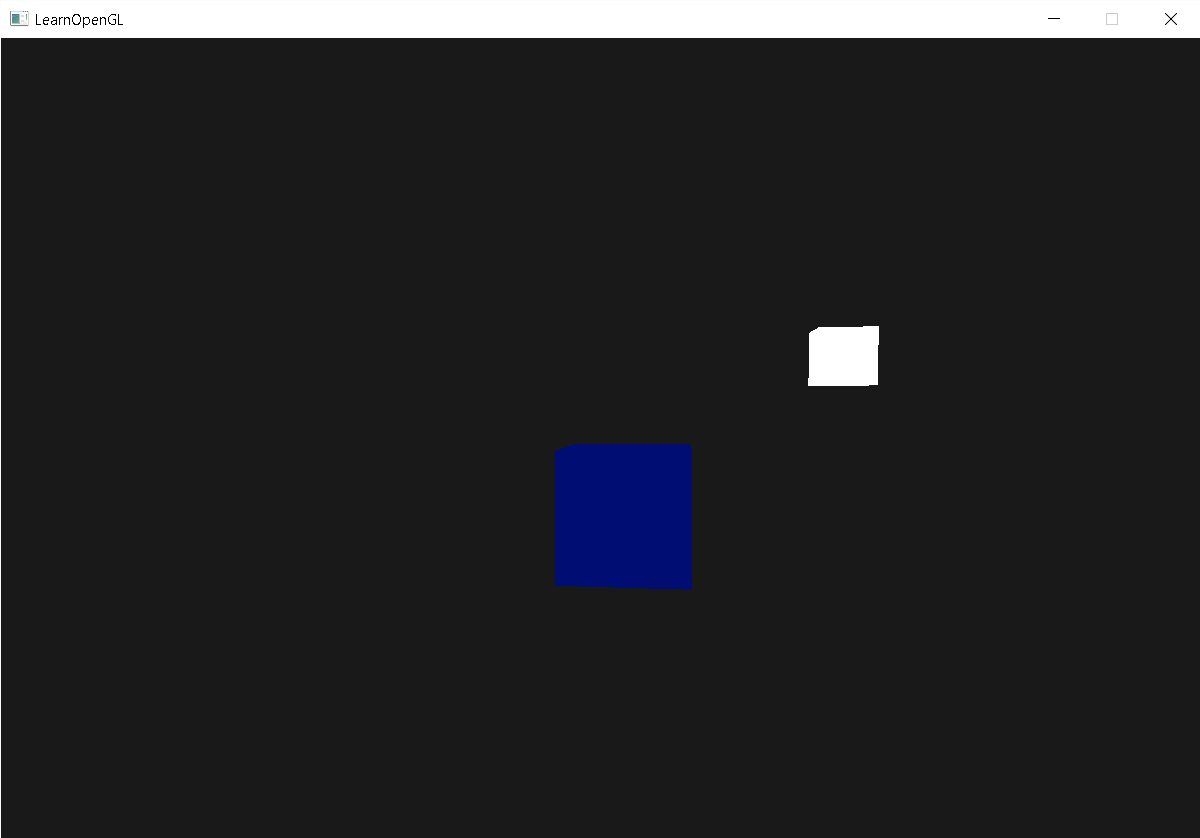
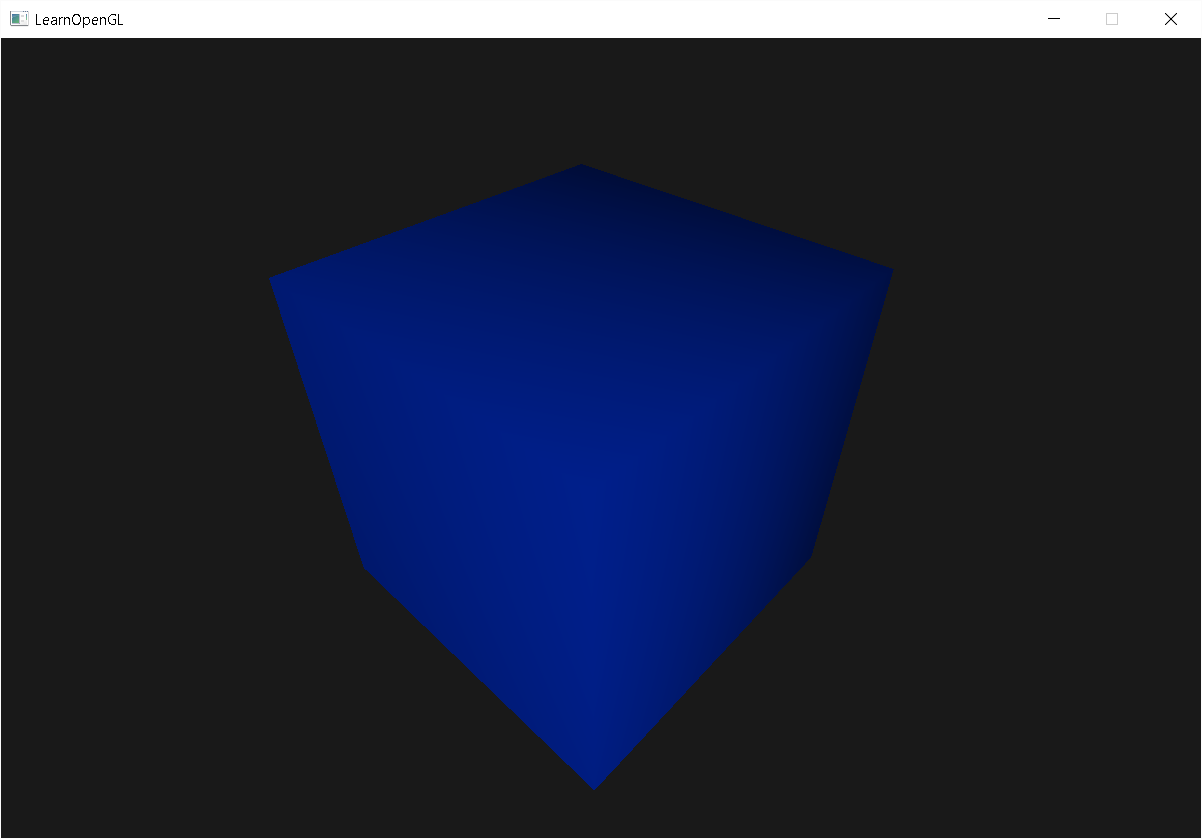
Cube is shaded not well, but beautiful, need to fix normal vectors

Changed region(s): [[0.2158, 0.1862, 0.74, 0.9308], [0.0, 0.9928, 1.0, 1.0], [0.0617, 0.0, 0.0925, 0.031]]

diff --git a/OpenGlFirst/Test.cpp b/OpenGlFirst/Test.cpp
@@ -106,52 +106,52 @@ int main()
 		Shader lampShader("C:\\Users\\Vadim\\Documents\\Visual Studio 2012\\Projects\\OpenGlFirst\\shaders\\lamp.vs", 
 		"C:\\Users\\Vadim\\Documents\\Visual Studio 2012\\Projects\\OpenGlFirst\\shaders\\lamp.frag");
 
-    // Set up vertex data (and buffer(s)) and attribute pointers for CUBE
-   GLfloat vertices[] = 
-   {
-        -0.5f, -0.5f, -0.5f,
-         0.5f, -0.5f, -0.5f,
-         0.5f,  0.5f, -0.5f,
-         0.5f,  0.5f, -0.5f,
-        -0.5f,  0.5f, -0.5f,
-        -0.5f, -0.5f, -0.5f,
+    // Set up vertex data (and buffer(s)) and attribute pointers for CUBE with normals
+       GLfloat vertices[] = {
+    -0.5f, -0.5f, -0.5f,  0.0f,  0.0f, -1.0f,
+     0.5f, -0.5f, -0.5f,  0.0f,  0.0f, -1.0f, 
+     0.5f,  0.5f, -0.5f,  0.0f,  0.0f, -1.0f, 
+     0.5f,  0.5f, -0.5f,  0.0f,  0.0f, -1.0f, 
+    -0.5f,  0.5f, -0.5f,  0.0f,  0.0f, -1.0f, 
+    -0.5f, -0.5f, -0.5f,  0.0f,  0.0f, -1.0f, 
 
-        -0.5f, -0.5f,  0.5f,
-         0.5f, -0.5f,  0.5f,
-         0.5f,  0.5f,  0.5f,
-         0.5f,  0.5f,  0.5f,
-        -0.5f,  0.5f,  0.5f,
-        -0.5f, -0.5f,  0.5f,
+    -0.5f, -0.5f,  0.5f,  0.0f,  0.0f, 1.0f,
+     0.5f, -0.5f,  0.5f,  0.0f,  0.0f, 1.0f,
+     0.5f,  0.5f,  0.5f,  0.0f,  0.0f, 1.0f,
+     0.5f,  0.5f,  0.5f,  0.0f,  0.0f, 1.0f,
+    -0.5f,  0.5f,  0.5f,  0.0f,  0.0f, 1.0f,
+    -0.5f, -0.5f,  0.5f,  0.0f,  0.0f, 1.0f,
 
-        -0.5f,  0.5f,  0.5f,
-        -0.5f,  0.5f, -0.5f,
-        -0.5f, -0.5f, -0.5f,
-        -0.5f, -0.5f, -0.5f,
-        -0.5f, -0.5f,  0.5f,
-        -0.5f,  0.5f,  0.5f,
+    -0.5f,  0.5f,  0.5f, -1.0f,  0.0f,  0.0f,
+    -0.5f,  0.5f, -0.5f, -1.0f,  0.0f,  0.0f,
+    -0.5f, -0.5f, -0.5f, -1.0f,  0.0f,  0.0f,
+    -0.5f, -0.5f, -0.5f, -1.0f,  0.0f,  0.0f,
+    -0.5f, -0.5f,  0.5f, -1.0f,  0.0f,  0.0f,
+    -0.5f,  0.5f,  0.5f, -1.0f,  0.0f,  0.0f,
 
-         0.5f,  0.5f,  0.5f,
-         0.5f,  0.5f, -0.5f,
-         0.5f, -0.5f, -0.5f,
-         0.5f, -0.5f, -0.5f,
-         0.5f, -0.5f,  0.5f,
-         0.5f,  0.5f,  0.5f,
+     0.5f,  0.5f,  0.5f,  1.0f,  0.0f,  0.0f,
+     0.5f,  0.5f, -0.5f,  1.0f,  0.0f,  0.0f,
+     0.5f, -0.5f, -0.5f,  1.0f,  0.0f,  0.0f,
+     0.5f, -0.5f, -0.5f,  1.0f,  0.0f,  0.0f,
+     0.5f, -0.5f,  0.5f,  1.0f,  0.0f,  0.0f,
+     0.5f,  0.5f,  0.5f,  1.0f,  0.0f,  0.0f,
 
-        -0.5f, -0.5f, -0.5f,
-         0.5f, -0.5f, -0.5f,
-         0.5f, -0.5f,  0.5f,
-         0.5f, -0.5f,  0.5f,
-        -0.5f, -0.5f,  0.5f,
-        -0.5f, -0.5f, -0.5f,
+    -0.5f, -0.5f, -0.5f,  0.0f, -1.0f,  0.0f,
+     0.5f, -0.5f, -0.5f,  0.0f, -1.0f,  0.0f,
+     0.5f, -0.5f,  0.5f,  0.0f, -1.0f,  0.0f,
+     0.5f, -0.5f,  0.5f,  0.0f, -1.0f,  0.0f,
+    -0.5f, -0.5f,  0.5f,  0.0f, -1.0f,  0.0f,
+    -0.5f, -0.5f, -0.5f,  0.0f, -1.0f,  0.0f,
 
-        -0.5f,  0.5f, -0.5f,
-         0.5f,  0.5f, -0.5f,
-         0.5f,  0.5f,  0.5f,
-         0.5f,  0.5f,  0.5f,
-        -0.5f,  0.5f,  0.5f,
-        -0.5f,  0.5f, -0.5f
+    -0.5f,  0.5f, -0.5f,  0.0f,  1.0f,  0.0f,
+     0.5f,  0.5f, -0.5f,  0.0f,  1.0f,  0.0f,
+     0.5f,  0.5f,  0.5f,  0.0f,  1.0f,  0.0f,
+     0.5f,  0.5f,  0.5f,  0.0f,  1.0f,  0.0f,
+    -0.5f,  0.5f,  0.5f,  0.0f,  1.0f,  0.0f,
+    -0.5f,  0.5f, -0.5f,  0.0f,  1.0f,  0.0f
+};
 
-   };
+  
     
 
     GLuint VBO, boxVAO;
@@ -163,8 +163,8 @@ int main()
 
 	glBindVertexArray(boxVAO);    
     // Position attribute
-    glVertexAttribPointer(0, 3, GL_FLOAT, GL_FALSE, 3 * sizeof(GLfloat), (GLvoid*)0);
-    glEnableVertexAttribArray(0);
+    glVertexAttribPointer(0, 3, GL_FLOAT, GL_FALSE, 6 * sizeof(GLfloat), (GLvoid*)0);
+	glEnableVertexAttribArray(0);
     glBindVertexArray(0); // Unbind boxVAO
 	
 	glBindBuffer(GL_ARRAY_BUFFER, 0);
@@ -202,7 +202,7 @@ int main()
 	GLint objectColorLoc = glGetUniformLocation(lightningShader.Program, "objectColor");
 	GLint lightColorLoc = glGetUniformLocation(lightningShader.Program, "lightColor");
 	glUniform3f(objectColorLoc, 0.f, 0.2f, 0.9f);
-	glUniform3f(lightColorLoc, 1.f, 0.5f, 1.f); // Set color white	
+	glUniform3f(lightColorLoc, 1.f, 1.0f, 1.f); // Set color white	
 
 	// Create camera transformation
 	glm::mat4 view;
@@ -215,7 +215,10 @@ int main()
 	GLint modelLoc = glGetUniformLocation(lightningShader.Program, "model");
 	GLint viewLoc = glGetUniformLocation(lightningShader.Program, "view");
 	GLint projLoc = glGetUniformLocation(lightningShader.Program, "projection");
-	
+	// For lightPosition
+	GLint lightPosLoc = glGetUniformLocation(lightningShader.Program, "lightPos");
+	glUniform3f(lightPosLoc, lightPos.x, lightPos.y, lightPos.z);
+
 	// Time from moment glfw initialized.
 	currentFrame = glfwGetTime();
 	deltaTime = currentFrame - lastFrame;
